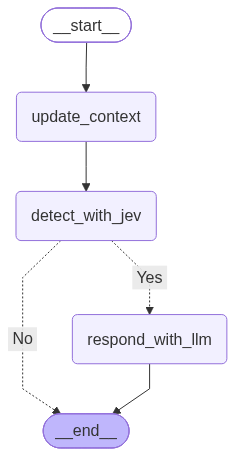
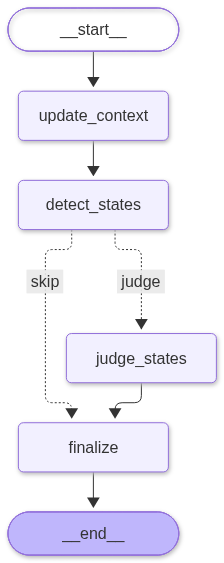
docs: 상태별 판단 구현에 맞춰 계약·아키텍처·진행 기록을 갱신함
Refs #13

Changed region(s): [[0.0312, 0.0, 1.0, 1.0], [0.4688, 0.5219, 0.5312, 0.5526]]

diff --git a/docs/design/state-and-graph.md b/docs/design/state-and-graph.md
@@ -1,71 +1,84 @@
-# ScamShield 2AS State·Graph 계약
+# ScamShield 상태별 판단 State·Graph 계약
 
-상태: **2026-10-23 사용자 요청으로 구조 변경 확정, 2026-10-27 인터페이스·Graph 구현과 API 없는 검증 완료**. 실제 Jev Yes/No 연결은 확인했고 Gemini 생성 성공은 HTTP 504/503으로 미확인이다. 기존 phase·Suspect/Verify·Mock 조회 설계를 대체한다. 현재 작업과 검증 근거는 [2AS change](../../openspec/changes/jev-gemini-two-agent/work.md)에 있다. 과거 데모의 요구와 실행 이력은 [first-demo](../../openspec/changes/first-demo/work.md)에 보존한다.
+상태: **2026-11-22 [jev-state-agents](../../openspec/changes/jev-state-agents/design.md#구현-계약-2026-11-22) 구현 계약대로 구현, API 없는 테스트 통과**. 실제 Jev 6질문·Haiku 연결은 아직 확인하지 않았다. 이전 Jev Yes/No + Gemini 2AS 계약을 대체한다. 2AS의 요구와 검증 기록은 [2AS change](../../openspec/changes/jev-gemini-two-agent/work.md)에 보존한다.
 
 ## 목적과 범위
 
-완성된 STT 텍스트를 Jev에 보내 보이스피싱 여부를 판단하고 Yes일 때만 Gemini로 분석·대응한다. 이번 범위는 두 모델의 인터페이스·실제 API 연결과 LangGraph다. 실제 STT 서비스·Kafka·화자/partial 계약·조회 도구·HTTP 서버·UI는 후속 범위다.
+통화의 새 줄이 들어오면 Jev가 사기 수법 행동 F1~F6이 새 줄에 나타났는지 감지하고, 켜진 상태마다 Claude Haiku가 대화 맥락으로 그 행동이 수상한지 판단한다. 상태 판단으로 통화 상태(위험·주의·정상)와 점수를 정한다. 상태 정의는 [spec](../../openspec/changes/jev-state-agents/spec.md#상태-정의)에 있다. STT·화자 구분·BE 저장은 BE `agent-bridge`가 맡는다.
 
 ## 실행 구조
 
 ```mermaid
 flowchart TD
-    S([STT 텍스트 입력]) --> U[update_context: 대화 누적·이번 결과 초기화]
-    U --> J[detect_with_jev: Jev Yes/No와 확률 저장]
-    J -->|Yes| G[respond_with_llm: Gemini 재판단·대응 저장]
-    J -->|No| E([종료])
-    G --> E
+    S([history·new_lines·state·now]) --> U[update_context: 입력 검증·전체 대화 구성]
+    U --> D[detect_states: Jev 1회, 라우팅]
+    D -->|부를 상태 있음| J[judge_states: 상태별 Haiku 동시 호출, 보정]
+    D -->|없음| F[finalize: 점수·통화 상태·BE 필드]
+    J --> F
+    F --> E([AnalysisOutcome])
 ```
 
-두 판단 역할은 Jev 탐지와 Gemini 재판단·대응이다. update_context는 입력 처리 Node다. 이전 verify_agent·tool_execution·warn Node와 조회 후 Jev 재판단은 없다. 한 turn에 Jev는 1회, Gemini는 Yes이면 1회·No이면 0회다. Gemini가 오탐(is_phishing=False)으로 판단하면 대응 없이 turn을 끝내고, 그래프 안에서 되돌아가는 대신 다음 STT 발화가 새 turn으로 들어와 누적된 transcript로 다시 판단한다. 자동 재시도와 모델 실패 시 offline 전환은 없다.
+입구는 [graph.py](../../scamshield/graph.py)의 `CallPipeline.analyze(history, new_lines, state, now)` 하나다. 통화 상태는 입력 `state`로만 받고 출력 `state`로 돌려주므로 checkpointer가 없다. 같은 요청을 같은 `state`로 다시 보내도 판단이 두 번 쌓이지 않는다. `build_pipeline(offline=False)`는 `TYPESAFE_API_KEY`·`ANTHROPIC_API_KEY`가 비어 있으면 `PipelineError(code="config")`를 낸다. `offline=True`는 키 없는 고정 대역이다.
 
-## 인터페이스와 State
+## 입력과 출력
 
-[interfaces.py](../../scamshield/interfaces.py)의 `Detector.detect(transcript)`는 판정 dict, `Analyst.analyze(state)`는 분석 dict를 반환한다. [graph.py](../../scamshield/graph.py)의 `CallPipeline(detector, analyst).run_turn(call_id, utterance)`가 입력/오류 경계다. `utterance`는 비어 있지 않은 문자열 하나이며 원문을 보존한다. callId는 thread_id로 사용하고 State에 중복 저장하지 않는다.
+- `history: list[str]`: 이번 요청 전 대화. 한 줄은 `"[화자] 발화"`다. `[나]`는 앱 사용자, `[상대]`는 통화 상대, `[사용자 입력 …]`은 사용자가 앱에 넣은 내용이다.
+- `new_lines: list[NewLine]`: 이번 새 줄 `{seq, text}`. 1줄 이상이다.
+- `state: dict | None`: 이전 출력의 `state`. `None`이면 새 통화다.
+- `now: float`: 새 줄의 시각(초). `uncertain` 점수 감소를 잰다.
 
-| State 필드 | 의미·초기화 | 작성 책임 |
-|---|---|---|
-| utterance | 이번 발화. 대화에 추가한 뒤 None | 입력 경계·update_context |
-| transcript: list[str] | 통화 전체 텍스트. 기존 목록 + 새 발화로 전체 교체 | update_context |
-| jev_decision: dict 또는 None | 이번 판정. 새 turn에는 None | 초기화·detect_with_jev |
-| analysis: dict 또는 None | 이번 재판단(is_phishing)·근거·대응. 새 turn에는 None | 초기화·respond_with_llm |
+`AnalysisOutcome`([state.py](../../scamshield/state.py))
 
-`jev_decision = {verdict: "Yes" 또는 "No", probability: 숫자}`다. probability는 항상 **P(보이스피싱/Yes)**이며 0~1의 유한 숫자다. No의 확률이나 confidence와 혼용하지 않는다. `analysis = {is_phishing: 불리언, reason: 문자열, response: 문자열 또는 None}`이다. is_phishing은 Gemini가 Jev의 Yes를 전체 대화로 재판단한 결론이다. reason은 대화에서 확인되는 근거와 한계의 요약이며 공백만 있는 값을 거부한다. response는 is_phishing이 True일 때만 사용자 대응 안내를 담고, False(오탐)이면 None이다. True인데 response가 비었거나 False인데 response가 있으면 오류다. Gemini가 Jev 내부 추론을 직접 알거나 기관 조회를 한 것처럼 설명하지 않는다.
+| 필드 | 의미 |
+|---|---|
+| `status` | `risky` 상태가 있으면 위험, 없고 점수가 남은 `uncertain`이 있으면 주의, 그 밖은 정상 |
+| `score` | 상태별 점수 칸의 합(최대 100) |
+| `message` | 위험일 때 우선순위가 가장 높은 `risky` 상태의 `response`. 비었으면 고정 문구. 위험이 아니면 `None` |
+| `reason` | `risky`와 점수가 남은 `uncertain` 상태의 이유를 우선순위대로 `"F1: … / F4: …"`로 이은 값. 없으면 `None` |
+| `evidence_seqs` | `risky` 상태를 판단한 요청의 새 줄 `seq`(보류였으면 보류 동안 쌓인 `seq`) |
+| `states` | 이번 Jev 결과. 상태별 `{verdict, probability(P(Yes))}` |
+| `state_analyses` | 이번에 부른 Haiku의 보정 후 판단(우선순위 순). 보정 전 판단·보정 이유·tool 결과 상태를 함께 남긴다 |
+| `state` | 다음 요청에 넘길 JSON dict: `handled`(상태별 `{judgment, reason, response, actions, evidence_seqs, judged_at}`), `call_context`(`{purpose, claimed_identity}`), `seen`, `held`(F3·F5 `{probability, seqs}`) |
 
-기존 `phase`, `risk`, `verification_results`, `tool_request`, `verification_attempted`는 제거한다. 새 State는 기존 checkpoint와 호환되지 않는다. InMemorySaver를 새 프로세스에서 시작하고 같은 인스턴스·callId로 순차 호출할 때만 누적한다. 새 callId는 상태가 분리된다. 상태/의존성 입력/관찰 callback에는 복사본을 사용해 외부 변경을 차단한다. 영구 저장·프로세스 공유·동시 입력·cleanup은 구현하지 않는다.
+## Jev 상태 감지
 
-## 실제 Jev 연결
+[jev.py](../../scamshield/jev.py)는 요청마다 `POST /v1/systemone`을 1번 부른다. `history` 마지막 4줄과 새 줄 전부를 보내고, 상태 6개를 choice 질문으로 묻는다. 질문은 "마지막 n줄이 판단할 새 대사"라고 알리고 새 대사에 행동이 있는지만 묻는다. 대기 10초, 자동 재시도는 없다. 호출 실패·잘못된 출력은 `PipelineError(stage="jev")`이며 모든 상태를 No로 바꾸지 않는다. 키·주소·모델 환경변수는 `TYPESAFE_API_KEY`·`TYPESAFE_BASE_URL`·`TYPESAFE_DEFAULT_MODEL`이다.
 
-2026-10-23 [TypeSafe API](https://docs.typesafe.ai/api/system-one), [Choice](https://docs.typesafe.ai/primitives/choice), [환경변수 기준](https://docs.typesafe.ai/sdk/python/api/constants)을 확인했다. [JevClient](../../scamshield/jev.py)는 표준 라이브러리 HTTP로 `POST https://api.typesafe.ai/v1/systemone`을 호출한다.
+## 라우팅
 
-- 인증: `TYPESAFE_API_KEY`를 `Authorization: Bearer`에 전달한다.
-- 기본 주소: `TYPESAFE_BASE_URL=https://api.typesafe.ai`, 기본 모델: `TYPESAFE_DEFAULT_MODEL=jev-latest`.
-- 요청 state: `{transcript: 전체 텍스트 목록}`. question 이름은 `voice_phishing`, type은 `choice`, criteria는 Yes/No다.
-- 응답 `answers.voice_phishing.choice`를 verdict로, `probabilities.Yes`를 probability로 변환한다. 별도 threshold로 Yes/No를 재계산하지 않는다.
-- Yes/No 확률의 존재·범위·유한성·합계(오차 0.001 허용)와 최다 확률 선택을 확인한다. confidence도 API 출력 형식으로 검사하지만 보이스피싱 확률로 저장하지 않는다.
-- HTTP 요청 timeout은 30초다. 호출 실패·잘못된 출력은 오류이며 No가 아니다.
+- Yes인 상태 중 이전 판단이 `risky`가 아닌 상태를 부른다. 이미 `risky`인 상태는 다시 부르지 않고, `uncertain`·`within_normal`은 다시 Yes가 되면 다시 부른다.
+- 이 통화에서 F1·F2·F4·F6이 아직 켜지지 않았으면 F3·F5는 `held`에 쌓고 부르지 않는다. 그중 하나가 처음 켜진 요청에서 `held`를 모두 함께 부르고 비운다.
+- 상태들은 `ThreadPoolExecutor`로 동시에 부르고 결과는 F1 → F3 → F2 → F5 → F4 → F6 순서로 정리한다.
 
-## Gemini 분석·대응
+## 상태별 Haiku 판단
 
-[GeminiAnalyst](../../scamshield/gemini.py)는 전체 transcript와 저장된 jev_decision을 함께 전달한다. 프롬프트는 Jev의 Yes가 오탐일 수 있다고 보고 전체 통화를 다시 읽어 재판단하게 한다. 결론은 `is_phishing`(True/False)에 담고 근거는 `reason`에 남긴다. 여전히 피싱(True)이면 `response`에 대응 안내를 적고, 오탐(False)이면 `response`를 비운다(None). [LangChain 공식 structured output](https://docs.langchain.com/oss/python/integrations/chat/google_generative_ai#structured-output)의 `method="json_schema"`로 `is_phishing/reason/response`를 받는다. Tool을 bind하거나 실행하지 않는다.
+[haiku.py](../../scamshield/haiku.py)는 `claude-haiku-5-5`, effort `low`, 호출마다 대기 12초, `max_retries=0`이다. 입력은 전체 대화(번호 붙임), 상태 정의·절대선·판단 핵심, Jev 확률과 새 대사 번호, `call_context`, 다시 부를 때 이전 판단과 이유다. 출력은 JSON `{judgment, absolute_line, reason, response, actions, call_context}`다. 프롬프트는 상대가 주장한 신분·절차를 정상 근거로 쓰지 말고, 상대가 말한 기관·지점이 공식인지는 대화로 확인할 수 없다고 적는다.
 
-`GEMINI_API_KEY`와 선택적인 `GEMINI_MODEL`을 사용한다. 기존 기본값 gemini-3.8-flash·Developer API·max_retries=0·timeout=120초·thinking_level=low를 유지한다. 모델 설정과 키 확인은 첫 Yes 때만 하므로 No 경로는 Gemini 키가 없어도 동작한다. Gemini는 통화를 재판단해 `reason/response`에 반영하지만, State의 jev_decision(Yes/No·확률)은 덮어쓰지 않고 Jev를 다시 호출하지도 않는다.
+- 보정: `absolute_line`은 F1·F2·F3·F5에서만 받아 `risky`로 고친다. tool 결과가 `flagged`면 `risky`로 고친다. 보정은 `corrections`에 남긴다.
+- tool([tools.py](../../scamshield/tools.py), 고정 목록 Mock): F1 `check_account`, F3 `check_url`·`check_app`(원격제어 앱)·`check_phone`(기관 대표번호). 결과는 `flagged`/`not_found`/`error`이고 `not_found`는 안전 근거가 아니다. 대화 원문이 아니라 계좌번호·주소·앱 이름·전화번호만 넣는다. 상태당 API 호출은 tool 왕복 포함 2번까지다.
+- 실패: 시간 초과·연결 실패·5xx 등 상태 코드 오류·잘못된 출력은 그 상태만 건너뛰고 오류 코드만 로그에 남긴다. 그 상태는 판단하지 않은 것으로 두고 다음 Yes에서 다시 부른다. 인증 실패(401·403)는 `PipelineError(stage="llm", code="AUTH_FAILED")`로 올린다.
+- `call_context`는 결과의 비어 있지 않은 값으로 갱신한다.
 
-## 종료와 오류
+## 점수
 
-정상 결과는 `{callId, jev_decision, analysis}`다. No는 analysis=None으로 즉시 종료하며 이전 Yes의 안내를 재사용하지 않는다. Yes는 검증된 분석을 State에 저장한 뒤 종료한다. 매번 누적 transcript로 새 판단을 받으므로 이전 Yes 뒤 No도 허용한다.
+| 판단 | F1·F2·F3 | F5 | F4·F6 |
+|---|---:|---:|---:|
+| `risky` | 40 | 25 | 10 |
+| `uncertain` | 20 | 10 | 5 |
+| `within_normal` | 0 | 0 | 0 |
 
-오류 결과는 `{callId, error: {stage, code, message}}`다. stage는 input/jev/llm/runtime이며 잘못된 입력은 State 변경 전에 거부한다. MISSING_API_KEY·INVALID_CONFIG·INVALID_OUTPUT·CALL_FAILED·EXECUTION_CONTRACT_VIOLATION을 구분한다. HTTP 코드·상태 같은 진단은 표시하되 키·응답 본문·인증 header·원시 예외 메시지는 출력하지 않는다.
+상태마다 칸이 하나다. `risky`는 고정이고, `uncertain`은 `점수 × 0.5^floor((now − judged_at) / 60)`이며 5 미만이면 0이다. 다시 판단하면 칸을 바꾸고 감소를 다시 잰다.
 
-실패한 Graph에는 성공 결과가 없다. 같은 callId의 pending Node를 재개하지 않고 새 callId로 다시 시작한다. 마지막 성공의 판정/안내가 이번 실패의 결과로 반환되지 않는다.
+## 오류
+
+`PipelineError(stage, code, message)`: `input/INVALID_INPUT`(입력·state 형식), `jev/CALL_FAILED`·`jev/INVALID_OUTPUT`, `llm/AUTH_FAILED`, `config/config`. 키·응답 본문·대화 내용은 메시지와 로그에 넣지 않는다.
 
 ## 검증과 후속 범위
 
-Yes/No 분기·이전 안내 초기화·대화 누적/통화 분리·입출력 검증·실제 Jev payload·Gemini SDK 요청/응답 변환은 API 없는 테스트로 검사한다. 실제 연결은 예제 통화로 별도 확인한다. 이 검증은 보이스피싱 탐지 성능·확률 보정·안내 품질의 평가가 아니다. 한국어 STT 제품·화자·partial/재전송 계약, 서버 전송, 도구 조회, 영구 기록·운영 복구는 후속 작업이다.
+라우팅·보류·재호출, 절대선·tool 보정, 점수 감소, Haiku 실패와 인증 오류, BE 필드, `state` JSON 왕복, Jev 요청 형식, Haiku 요청·tool 왕복은 API 없는 테스트로 확인한다. 실제 Jev·Haiku 연결과 KorCCVi 평가는 아직 하지 않았다. 검증 기록과 남은 일은 [work](../../openspec/changes/jev-state-agents/work.md)에 있다.
 
 ## 관련 문서
 
-- [현재 아키텍처](../architecture/overview.md) · [입력 예제 흐름](mvp-flow.md) · [컨텍스트](../project-context.md)
-- [2AS proposal](../../openspec/changes/jev-gemini-two-agent/proposal.md) · [spec](../../openspec/changes/jev-gemini-two-agent/spec.md) · [design](../../openspec/changes/jev-gemini-two-agent/design.md)
-- [tasks](../../openspec/changes/jev-gemini-two-agent/tasks.md) · [검증 근거](../../openspec/changes/jev-gemini-two-agent/work.md)
-- 제안 중(미채택): [Jev 상태 감지·상태별 LLM 대응](../../openspec/changes/jev-state-agents/proposal.md)
+- [현재 아키텍처](../architecture/overview.md) · [입력과 실행 흐름](mvp-flow.md) · [컨텍스트](../project-context.md)
+- [jev-state-agents proposal](../../openspec/changes/jev-state-agents/proposal.md) · [spec](../../openspec/changes/jev-state-agents/spec.md) · [design](../../openspec/changes/jev-state-agents/design.md) · [tasks](../../openspec/changes/jev-state-agents/tasks.md) · [work](../../openspec/changes/jev-state-agents/work.md)
+- 이전 계약: [2AS change](../../openspec/changes/jev-gemini-two-agent/design.md)

diff --git a/README.md b/README.md
@@ -2,9 +2,9 @@
 
 한국어 통화의 보이스피싱 여부를 판단하고 탐지 시 분석과 대응 안내를 제공하는 졸업프로젝트다. 목적과 합의된 MVP 범위는 [프로젝트 컨텍스트](docs/project-context.md)에 있다.
 
-현재 구조는 **Jev 탐지 + Gemini 분석·대응의 2AS**다. 완성된 STT 텍스트를 Jev에 보내 Yes/No와 P(Yes)를 State에 저장한다. Yes이면 Gemini가 대화와 Jev 결과를 받아 탐지 근거 요약과 대응 안내를 저장하고, No이면 LLM 호출 없이 종료한다. [State·Graph 계약](docs/design/state-and-graph.md)과 [실행 근거](openspec/changes/jev-gemini-two-agent/work.md)를 따른다.
+현재 구조는 **Jev 상태 감지 + 상태별 Claude Haiku 판단**이다. 새 줄이 들어오면 Jev가 사기 수법 행동 F1~F6이 새 줄에 나타났는지 감지하고, 켜진 상태마다 Haiku가 전체 대화로 그 행동이 수상한지 판단한다. 판단으로 통화 상태(위험·주의·정상)와 점수를 만든다. [State·Graph 계약](docs/design/state-and-graph.md)과 [실행 근거](openspec/changes/jev-state-agents/work.md)를 따른다.
 
-![컴파일된 2AS LangGraph](docs/architecture/scamshield-langgraph.png)
+![컴파일된 ScamShield LangGraph](docs/architecture/scamshield-langgraph.png)
 
 ## 작업 시작
 
@@ -34,49 +34,50 @@ uv lock --check --offline
 
 ## CLI 실행
 
-API 없이 연결 흐름을 확인한다. 두 역할 모두 명시적인 대역이며 실제 모델 검증이 아니다.
+API 없이 연결 흐름을 확인한다. Jev·Haiku 모두 명시적인 대역이며 실제 모델 검증이 아니다.
 
 ```sh
 uv run --locked python -m scamshield --offline --auto
 ```
 
-실제 모델을 사용하려면 [.env.example](.env.example)의 이름에 맞춰 로컬 `.env`에 키를 등록한다. 기존 Gemini 설정은 유지하고 [TypeSafe 콘솔](https://console.typesafe.ai/keys)에서 발급한 키를 `TYPESAFE_API_KEY=` 뒤에 입력한다. 키 자체만 넣으며 `Bearer `는 붙이지 않는다. `.env`는 Git에서 제외되고 자동으로 읽지 않는다.
+실제 모델을 사용하려면 [.env.example](.env.example)의 이름에 맞춰 로컬 `.env`에 키를 등록한다. Anthropic 키를 `ANTHROPIC_API_KEY=` 뒤에, [TypeSafe 콘솔](https://console.typesafe.ai/keys)에서 발급한 키를 `TYPESAFE_API_KEY=` 뒤에 입력한다. 키 자체만 넣으며 `Bearer `는 붙이지 않는다. `.env`는 Git에서 제외되고 자동으로 읽지 않는다.
 
 ```dotenv
-GEMINI_API_KEY=
-GEMINI_MODEL=gemini-3.8-flash
+ANTHROPIC_API_KEY=
 TYPESAFE_API_KEY=
 TYPESAFE_BASE_URL=https://api.typesafe.ai
 TYPESAFE_DEFAULT_MODEL=jev-latest
 ```
 
-Jev 설정 이름과 기본값은 [TypeSafe 공식 기준](https://docs.typesafe.ai/sdk/python/api/constants)에 맞췄다. 실제 연결은 표준 HTTP를 사용한다. Gemini는 Yes일 때만 설정·호출되므로 No 경로에는 Gemini 키가 필요하지 않다. 키·인증 헤더·API 오류 본문을 출력하거나 커밋하지 않는다.
+Jev 설정 이름과 기본값은 [TypeSafe 공식 기준](https://docs.typesafe.ai/sdk/python/api/constants)에 맞췄다. 실제 연결은 표준 HTTP를 사용한다. Haiku는 `anthropic` SDK로 `claude-haiku-5-5`를 부른다. 두 키는 시작할 때 모두 확인하며 하나라도 비면 `config` 오류로 멈춘다. 키·인증 헤더·API 오류 본문을 출력하거나 커밋하지 않는다.
 
 ```sh
 uv run --locked --env-file .env python -m scamshield --auto
 uv run --locked --env-file .env python -m scamshield --text "안전계좌로 지금 송금하세요."
 ```
 
-`--auto` 없이 실행하면 세 번 입력받으며 Enter는 준비된 문장을 사용한다. `--text`는 STT 결과에 해당하는 텍스트 한 건을 입력한다. 실제 STT 수신은 아직 없다. Graph 입력 인터페이스는 다음과 같다.
+`--auto` 없이 실행하면 세 번 입력받으며 Enter는 준비된 문장을 사용한다. 화자 표시가 없는 입력은 `[상대]` 말로 본다. `--text`는 STT 결과에 해당하는 텍스트 한 건을 입력한다. CLI는 대화와 agent 상태를 직접 들고 요청을 이어 보낸다. Graph 입력 인터페이스는 다음과 같다.
 
 ```python
-from scamshield.gemini import GeminiAnalyst
-from scamshield.graph import CallPipeline
-from scamshield.jev import JevClient
+import time
 
-pipeline = CallPipeline(JevClient.from_env(), GeminiAnalyst())
-result = pipeline.run_turn("call-1", "완성된 STT 텍스트")
+from scamshield.graph import build_pipeline
+from scamshield.state import NewLine
+
+pipeline = build_pipeline()  # offline=True면 키 없는 대역
+outcome = pipeline.analyze([], [NewLine(seq=1, text="[상대] 완성된 STT 텍스트")], None, time.time())
+next_state = outcome.state  # 다음 요청의 state로 넘긴다
 ```
 
-정상 결과는 `{callId, jev_decision: {verdict, probability}, analysis}`다. probability는 항상 P(Yes)이며 analysis는 Yes일 때 `{is_phishing, reason, response}`, No일 때 None이다. is_phishing은 Gemini가 Jev의 Yes를 재판단한 결과이고, response는 피싱(True)일 때만 대응 안내를 담고 오탐(False)이면 None이다. 같은 인스턴스·callId를 재사용하면 전체 대화가 누적된다. 실제 모델의 출력은 고정 시나리오가 아니다.
+결과 `AnalysisOutcome`은 `status`(위험·주의·정상), `score`(0~100), `message`, `reason`, `evidence_seqs`, 이번 Jev 결과 `states`, 이번 Haiku 판단 `state_analyses`, 다음 요청에 넘길 `state`다. `analyze`는 상태를 저장하지 않으므로 호출하는 쪽이 `history`와 `state`를 들고 있어야 한다. 실제 모델의 출력은 고정 시나리오가 아니다.
 
 캐시 권한 문제가 있으면 `uv --cache-dir .venv/uv-cache run ...`으로 실행한다. Windows에서 uv가 PATH에 없고 로컬 가상환경에 설치되어 있다면 `.venv\Scripts\python.exe -m uv`를 사용할 수 있다. 한글 출력은 `python -X utf8 -m scamshield ...`로 실행할 수 있다.
 
 ## 현재 범위
 
-phase·Suspect/Verify·Mock case_lookup·조회 후 재판단을 제거했다. 두 역할의 Protocol, 실제 Jev HTTP·Gemini JSON schema 연결, Yes/No 조건 분기와 통화별 InMemorySaver를 구현했다. State는 최신 판단/분석만 저장하며 이전 분석이 다음 No에 남지 않는다. 실패는 오류로 반환하고 자동 재시도·offline 대체를 하지 않는다.
+2AS의 Gemini 경로와 `voice_phishing` 질문을 뺐다. Jev 상태 6개 감지, F3·F5 보류와 재호출 규칙, 상태별 Haiku 동시 호출, 절대선·tool 보정, 점수 감소를 구현했다. tool은 고정 목록 Mock이다. Jev 실패와 Haiku 인증 실패는 오류이고, 그 밖의 Haiku 실패는 그 상태만 건너뛴다. 자동 재시도·offline 대체는 없다.
 
-전체 대화는 프로세스 내에서만 유지된다. CLI의 세 입력 제한은 데모 설정이며 Graph의 turn 한도가 아니다. 실제 STT·화자 정보·partial 처리·Kafka·조회 도구·웹 서버·UI·영구 저장·동시 입력/복구는 후속 범위다.
+통화 상태 저장과 화자·상대 구분은 BE `agent-bridge`가 맡는다. CLI의 세 입력 제한은 데모 설정이다. 실제 tool API와 KorCCVi 평가는 후속 범위다.
 
 ## 코드 검증과 그래프 출력
 
@@ -85,7 +86,7 @@ uv run --locked pytest -q
 uv run --locked python -m scamshield.export_graph
 ```
 
-테스트는 API 없이 Yes/No 경로·이전 안내 초기화·통화 분리·HTTP/SDK 요청 변환·입출력 오류·CLI를 확인한다. 실제 연결과 테스트 결과는 [work](openspec/changes/jev-gemini-two-agent/work.md)에 구분한다. 탐지 성능이나 확률 보정을 검증한 것은 아니다.
+테스트는 API 없이 라우팅·보류·재호출, 절대선·tool 보정, 점수 감소, Haiku 실패 처리, BE 필드, `state` JSON 왕복, Jev·Haiku 요청 변환, CLI를 확인한다. 실제 연결과 테스트 결과는 [work](openspec/changes/jev-state-agents/work.md)에 구분한다. 탐지 성능이나 확률 보정을 검증한 것은 아니다.
 
 그래프 출력은 실제 컴파일된 LangGraph에서 [Mermaid 원본](docs/architecture/scamshield-langgraph.mmd)과 PNG를 생성한다. PNG 렌더링에는 Mermaid.ink 네트워크 접근이 필요하며 그래프 구조만 전송하고 모델은 호출하지 않는다.
 

diff --git a/openspec/index.md b/openspec/index.md
@@ -20,9 +20,9 @@
 
 공통 설계의 기준은 `docs/design/`, 현재 구현 설명은 `docs/architecture/`에 둔다. change 문서는 해당 변경의 요구와 적용 방법·진행을 담고 상위 문서로 연결한다. 변경이 반영되면 관련 기준 문서를 갱신하고, 본문의 관련 문서 항목에서 해당 change와 검증 기록으로 연결한다.
 
-## Jev 상태 감지·상태별 LLM 대응 — 진행 중(설계 확정, 구현 중)
+## Jev 상태 감지·상태별 LLM 대응 — 진행 중(agent 구현 완료, BE 브리지 남음)
 
-2026-11-15 사용자 요청으로 시작했다. KorCCVi에서 나온 대화 특징 F1~F6을 Jev가 상태로 감지하고, 켜진 상태별로 LLM이 대화 맥락을 보고 최종 판단과 대응을 한다. 2026-11-16 팀장과 이 구조로 전환하기로 협의했고 작업 이슈 [#13](https://github.com/M4-Scamshield/scam-agent/issues/13)을 등록했다. 상태별 LLM은 Claude API 에이전트로 쓴다. 같은 날 voice_phishing 임시 유지(나중에 제거), Claude 범위, BE 형식 유지, 임시 점수, F1·F3 Mock tool을 정했다. Jev에 상태 질문 7개를 한 요청으로 보내는 소량 실호출(20통화, 실패 0)로 형식을 확인했고, F5·F6 정의를 넓힌 v2와 묶음 오류·경계 정의를 고친 v3까지 같은 20통화로 상태별 미탐·오탐 원인을 확인했다. v3에서 spec 정의 기준 Jev 미탐은 F4 1건이다. 2026-11-17 새 표본(seed 1)에서 F1·F4·F6은 유지됐고, F5는 녹취 핑계로 제3자를 막는 행동을 No 문구가 빼 버려 재현이 3/7로 떨어졌다. 이를 고친 v4에서 F5는 6/7이 됐고 정상 통화 F5 오탐은 0이다. 2026-11-18 F4 평가 정답을 spec에 맞게 좁혀(N6은 돈 요구가 있는 통화만, N5는 혐의 추궁만) 재채점했고, v4 F4 재현은 seed 0 5/6, seed 1 9/10이다. 같은 날 개발용 200통화(사기 120, 정상 80)에서 재현은 F1 64%~F6 98%였고, 정상 통화 50/80에서 상태가 켜졌다. 그중 43통화는 F3·F6만 켜졌다. 대사 단위 확인(2026-11-19)에서 이 F3·F6는 상담원의 번호·사이트·장소 안내와 기관 소개로 켜졌다. 같은 날 Jev는 행동 감지만 하고 상태별 LLM(Claude Haiku)이 맥락으로 거르기로 했고, 상태 하나만 켜져도 LLM을 부르되 F3·F5만 켜진 동안은 보류한다(KorCCVi 단독 사기 각 1%). 2026-11-22 Jev에 최근 5줄만 보내고 마지막 대사를 판단하는 창 방식(v5 후보)을 사기 40·정상 20통화로 재 봤다. 통화 단위 재현은 전체 1회 판단과 같거나 높고, 정상 F3·F6 Yes 대사는 누적 방식의 약 1/4이지만, 대사마다 LLM을 부르면 사기 통화당 15.6회라 재호출 규칙이 필요하다. 같은 날 사용자가 창 방식을 채택했다. 같은 날 멘토링에서 기존 점수가 내려가지 않는다는 지적을 받았고, 판단·점수 규칙을 정했다. `risky` 상태는 다시 부르지 않고 점수를 고정한다. `uncertain` 점수는 1분마다 절반으로 줄인다. SUSPECT·WARN 대신 통화 상태(위험·주의·정상)를 쓰고, 알림은 위험일 때만 띄운다. BE가 합쳐 보내는 새 줄 전부를 한 번에 Jev에 묻는다. 같은 날 구현 전 남은 결정을 권장안대로 정했다: Gemini 경로와 `voice_phishing` 질문을 빼고, BE는 Java·DB를 그대로 두고 `agent-bridge`만 바꾼다(위험이 아니면 점수 39 이하). 버전별 변경 이유와 결과는 [변경 이력](../docs/analysis/jev-state-question-versions.md)에 있다. 서비스 코드는 [구현 계약](changes/jev-state-agents/design.md#구현-계약-2026-11-22)대로 구현 중이며, 반영 전까지 현재 2AS 계약을 대체하지 않는다.
+2026-11-15 사용자 요청으로 시작했다. KorCCVi에서 나온 대화 특징 F1~F6을 Jev가 상태로 감지하고, 켜진 상태별로 LLM이 대화 맥락을 보고 최종 판단과 대응을 한다. 2026-11-16 팀장과 이 구조로 전환하기로 협의했고 작업 이슈 [#13](https://github.com/M4-Scamshield/scam-agent/issues/13)을 등록했다. 상태별 LLM은 Claude API 에이전트로 쓴다. 같은 날 voice_phishing 임시 유지(나중에 제거), Claude 범위, BE 형식 유지, 임시 점수, F1·F3 Mock tool을 정했다. Jev에 상태 질문 7개를 한 요청으로 보내는 소량 실호출(20통화, 실패 0)로 형식을 확인했고, F5·F6 정의를 넓힌 v2와 묶음 오류·경계 정의를 고친 v3까지 같은 20통화로 상태별 미탐·오탐 원인을 확인했다. v3에서 spec 정의 기준 Jev 미탐은 F4 1건이다. 2026-11-17 새 표본(seed 1)에서 F1·F4·F6은 유지됐고, F5는 녹취 핑계로 제3자를 막는 행동을 No 문구가 빼 버려 재현이 3/7로 떨어졌다. 이를 고친 v4에서 F5는 6/7이 됐고 정상 통화 F5 오탐은 0이다. 2026-11-18 F4 평가 정답을 spec에 맞게 좁혀(N6은 돈 요구가 있는 통화만, N5는 혐의 추궁만) 재채점했고, v4 F4 재현은 seed 0 5/6, seed 1 9/10이다. 같은 날 개발용 200통화(사기 120, 정상 80)에서 재현은 F1 64%~F6 98%였고, 정상 통화 50/80에서 상태가 켜졌다. 그중 43통화는 F3·F6만 켜졌다. 대사 단위 확인(2026-11-19)에서 이 F3·F6는 상담원의 번호·사이트·장소 안내와 기관 소개로 켜졌다. 같은 날 Jev는 행동 감지만 하고 상태별 LLM(Claude Haiku)이 맥락으로 거르기로 했고, 상태 하나만 켜져도 LLM을 부르되 F3·F5만 켜진 동안은 보류한다(KorCCVi 단독 사기 각 1%). 2026-11-22 Jev에 최근 5줄만 보내고 마지막 대사를 판단하는 창 방식(v5 후보)을 사기 40·정상 20통화로 재 봤다. 통화 단위 재현은 전체 1회 판단과 같거나 높고, 정상 F3·F6 Yes 대사는 누적 방식의 약 1/4이지만, 대사마다 LLM을 부르면 사기 통화당 15.6회라 재호출 규칙이 필요하다. 같은 날 사용자가 창 방식을 채택했다. 같은 날 멘토링에서 기존 점수가 내려가지 않는다는 지적을 받았고, 판단·점수 규칙을 정했다. `risky` 상태는 다시 부르지 않고 점수를 고정한다. `uncertain` 점수는 1분마다 절반으로 줄인다. SUSPECT·WARN 대신 통화 상태(위험·주의·정상)를 쓰고, 알림은 위험일 때만 띄운다. BE가 합쳐 보내는 새 줄 전부를 한 번에 Jev에 묻는다. 같은 날 구현 전 남은 결정을 권장안대로 정했다: Gemini 경로와 `voice_phishing` 질문을 빼고, BE는 Java·DB를 그대로 두고 `agent-bridge`만 바꾼다(위험이 아니면 점수 39 이하). 버전별 변경 이유와 결과는 [변경 이력](../docs/analysis/jev-state-question-versions.md)에 있다. 같은 날 agent를 [구현 계약](changes/jev-state-agents/design.md#구현-계약-2026-11-22)대로 구현해 2AS 계약을 대체했고, API 없는 테스트 74개가 통과했다. 실제 Jev·Haiku 연결 확인과 BE `agent-bridge` 변경이 남았다.
 
 - [proposal](changes/jev-state-agents/proposal.md): 목적·범위·완료 조건.
 - [spec](changes/jev-state-agents/spec.md): 상태 정의·라우팅·LLM 계약·절대선.

diff --git a/docs/architecture/overview.md b/docs/architecture/overview.md
@@ -1,8 +1,8 @@
-# 현재 2AS 구성
+# 현재 상태별 판단 구성
 
-2026-10-27 기준 Jev 탐지 → Yes일 때 Gemini 분석·대응하는 LangGraph를 구현했다. 계약은 [State·Graph](../design/state-and-graph.md), 실행한 검증·한계는 [2AS work](../../openspec/changes/jev-gemini-two-agent/work.md)에 있다.
+2026-11-22 기준 Jev 상태 감지(F1~F6) → 켜진 상태별 Claude Haiku 판단 → 통화 상태·점수 계산 LangGraph를 구현했다. 이전 Jev Yes/No + Gemini 2AS를 대체한다. 계약은 [State·Graph](../design/state-and-graph.md), 실행한 검증·한계는 [jev-state-agents work](../../openspec/changes/jev-state-agents/work.md)에 있다.
 
-![컴파일된 ScamShield 2AS LangGraph](scamshield-langgraph.png)
+![컴파일된 ScamShield LangGraph](scamshield-langgraph.png)
 
 이 이미지는 [export_graph.py](../../scamshield/export_graph.py)가 실제 `build_graph(OfflineDetector(), OfflineAnalyst())`를 컴파일한 뒤 추출한다. 대역과 실제 모델이 같은 Graph를 사용하며 내보내는 동안 모델 호출은 없다. [Mermaid 원본](scamshield-langgraph.mmd)도 함께 저장한다.
 
@@ -10,20 +10,20 @@
 
 | 코드 | 책임 |
 |---|---|
-| [state.py](../../scamshield/state.py) | 입력·State·Yes/No와 확률·reason/response 검증 계약 |
-| [interfaces.py](../../scamshield/interfaces.py) | Detector/Analyst Protocol, 명시적인 offline 대역 |
-| [jev.py](../../scamshield/jev.py) | TypeSafe HTTP 호출, Choice 확률을 내부 판정으로 변환 |
-| [gemini.py](../../scamshield/gemini.py) | Yes일 때만 모델 설정·구조화 분석 1회 호출 |
-| [graph.py](../../scamshield/graph.py) | 대화 누적, 판단 저장, Yes/No 분기, 분석 저장, checkpoint·오류 경계 |
-| [cli.py](../../scamshield/cli.py) | 완성 텍스트 입력, 실행 순서·판정·확률·분석·안내 출력 |
+| [state.py](../../scamshield/state.py) | 입력 `NewLine`, 출력 `AnalysisOutcome`, 요청 사이 상태 `AgentMemory`, Haiku 출력 검증, `PipelineError` |
+| [tactics.py](../../scamshield/tactics.py) | 상태 F1~F6 정의, 우선순위·보류 기준·절대선 상태·점수 |
+| [interfaces.py](../../scamshield/interfaces.py) | Detector/Analyst Protocol, 키 없는 offline 대역 |
+| [jev.py](../../scamshield/jev.py) | TypeSafe HTTP 호출, 상태 6개 choice 질문, 상태별 Yes/No·P(Yes) 변환 |
+| [haiku.py](../../scamshield/haiku.py) | 상태별 Haiku 프롬프트·호출·tool 왕복, 실패 분류 |
+| [tools.py](../../scamshield/tools.py) | F1·F3 Mock tool(고정 목록) |
+| [graph.py](../../scamshield/graph.py) | 라우팅, 동시 호출, 절대선·tool 보정, 점수·통화 상태·BE 필드, `build_pipeline` |
+| [cli.py](../../scamshield/cli.py) | 여러 요청을 이어 보내는 데모 입력과 결과 출력 |
 | [export_graph.py](../../scamshield/export_graph.py) | 컴파일된 그래프의 Mermaid·PNG 출력 |
 
 ## 수명과 범위
 
-같은 CallPipeline 인스턴스에서 thread_id=callId로 InMemorySaver를 공유한다. 전체 텍스트는 누적하고 판단·분석은 매 turn 비운 뒤 최신 값으로 교체한다. No는 LLM 호출 없이 종료하며 이전 분석을 남기지 않는다. 상태의 영구 저장과 동시 입력 처리는 없다.
-
-기존 phase/조회 State, Suspect/Verify 역할, Mock case_lookup·tool_execution·재판단 loop와 관련 코드를 제거했다. 기존 데모 기록은 역사 자료이며 현재 동작 설명이 아니다. 실제 STT·웹 서버·도구 조회는 아직 없다. 실행 방법은 [README](../../README.md)에 있다.
+`analyze`는 상태를 저장하지 않는다. 통화 상태는 BE가 `state`로 저장해 다음 요청에 돌려준다. 대화 원문·화자 구분·상대별 쌍 판단·응답 변환은 BE `agent-bridge`가 맡는다. tool은 Mock이고 실제 조회 API는 없다. 실행 방법은 [README](../../README.md)에 있다.
 
 ## 검증
 
-API 없는 Graph·Jev HTTP·Gemini SDK·CLI 검사는 [tests](../../tests/test_graph.py)에 연결된 테스트 모음으로 확인한다. 실제 Jev·Gemini 연결은 별도의 예제 통화로 확인하며 결과는 [work](../../openspec/changes/jev-gemini-two-agent/work.md)에 구분한다. 외부 모델 연결 성공과 탐지 성능 평가는 별개다.
+API 없는 Graph·Jev HTTP·Haiku 요청·Mock tool·CLI 검사는 [tests](../../tests/test_graph.py)에 연결된 테스트 모음으로 확인한다. 실제 Jev·Haiku 연결과 KorCCVi 평가는 아직이며 결과는 [work](../../openspec/changes/jev-state-agents/work.md)에 구분해 남긴다.

diff --git a/docs/design/mvp-flow.md b/docs/design/mvp-flow.md
@@ -1,18 +1,16 @@
-# 2AS 입력과 실행 흐름
+# 입력과 실행 흐름
 
-현재 기준은 [2AS State·Graph 계약](state-and-graph.md)이다. 기존 Fake Jev·Mock 조회 데모는 [과거 실행 기록](../../openspec/changes/first-demo/work.md)으로 보존한다.
+현재 기준은 [State·Graph 계약](state-and-graph.md)이다. 2AS와 기존 Fake Jev·Mock 조회 데모의 기록은 [2AS work](../../openspec/changes/jev-gemini-two-agent/work.md)와 [과거 실행 기록](../../openspec/changes/first-demo/work.md)으로 보존한다.
 
-## 이번 turn의 흐름
+## 요청 하나의 흐름
 
-1. 완성된 STT 문자열을 `CallPipeline.run_turn(call_id, utterance)`로 전달한다. 현재 CLI 텍스트 입력이 이 경계를 대신한다.
-2. update_context가 대화를 누적하고 이번 판정·분석을 비운다.
-3. Jev가 전체 대화를 읽고 Yes/No와 P(Yes)를 반환하면 State에 저장한다.
-4. No는 analysis=None으로 종료한다. Yes는 Gemini가 대화·Jev 결과를 읽어 reason/response를 저장하고 종료한다.
-
-다음 발화도 같은 callId로 전체 대화를 평가한다. 이전 Yes가 새 Yes를 강제하지 않는다. 실제 STT 수신·화자/partial·Kafka는 이번 범위 밖이다.
+1. BE `agent-bridge`(또는 CLI)가 이전 대화 `history`, 이번 새 줄 `new_lines`, 이전 출력 `state`, 시각 `now`로 `CallPipeline.analyze`를 부른다.
+2. Jev가 최근 4줄과 새 줄로 F1~F6이 새 줄에 나타났는지 감지한다.
+3. 켜진 상태 중 부를 상태만 Haiku가 전체 대화로 판단한다. F3·F5만 켜진 동안은 보류한다.
+4. 상태 판단으로 통화 상태·점수·안내를 만들고 다음 요청에 넘길 `state`를 돌려준다.
 
 ## 실행 확인
 
-`--offline --auto`의 준비된 세 문장은 일상 대화 → 기관 사칭/범죄 연루 → 안전계좌 송금 요구다. offline 대역에서 No → Yes → Yes를 고정 규칙으로 보여준다. 실제 Jev의 선택·확률과 Gemini 출력은 모델이 결정하므로 fixture와 동일하다고 가정하지 않는다.
+CLI는 대화와 `state`를 직접 들고 요청을 이어 보내며, 시각은 `time.time()`이다. 화자 표시가 없는 입력은 `[상대]` 말로 본다. `--offline --auto`의 준비된 세 문장은 일상 대화 → 기관 사칭·범죄 연루 → 안전계좌 송금 요구다. offline 대역은 키워드 규칙과 고정 판단(F1·F2 `risky`, 나머지 `uncertain`)으로 정상 → 주의 → 위험을 보여 준다. 실제 Jev·Haiku 출력은 모델이 정하므로 대역과 같다고 가정하지 않는다.
 
-직접 텍스트 한 건은 `--text`로 전달한다. 기본 CLI의 Enter 입력과 `--auto`는 세 turn 뒤 종료하는 데모이며 Graph의 turn 한도가 아니다. 명령·키 설정은 [README](../../README.md), 현재 검증은 [2AS work](../../openspec/changes/jev-gemini-two-agent/work.md)를 따른다.
+직접 텍스트 한 건은 `--text`로 넣는다. 기본 CLI의 Enter 입력과 `--auto`는 세 요청 뒤 끝나는 데모다. 명령·키 설정은 [README](../../README.md), 현재 검증은 [jev-state-agents work](../../openspec/changes/jev-state-agents/work.md)를 따른다.

diff --git a/openspec/changes/jev-state-agents/tasks.md b/openspec/changes/jev-state-agents/tasks.md
@@ -1,11 +1,11 @@
 # 작업 목록
 
-상태: 진행 중(설계 확정, 구현 단계). 작업 이슈: [#13](https://github.com/M4-Scamshield/scam-agent/issues/13)
+상태: 진행 중(agent 구현·API 없는 테스트 완료, BE 브리지·실연결 확인 남음). 작업 이슈: [#13](https://github.com/M4-Scamshield/scam-agent/issues/13)
 
 - [x] 상태 정의, 라우팅, LLM 계약, 절대선을 제안으로 기록한다.
 - [x] 팀장과 전환 방향을 협의하고 작업 이슈를 등록한다(#13).
 - [x] 미정 사항을 정한다: voice_phishing 임시 유지(나중에 제거), Claude는 상태 에이전트만, BE 계약 유지, 점수 임시 값, F1·F3 Mock tool. 근거: [design](design.md#결정-사항-2026-11-16-사용자-결정)
-- [ ] (나중) 평가로 `voice_phishing`만 Yes인 사기가 거의 없다고 확인되면 이 질문을 없앤다.
+- [x] (나중) 평가로 `voice_phishing`만 Yes인 사기가 거의 없다고 확인되면 이 질문을 없앤다. 2026-11-22 결정으로 평가 전에 구현에서 뺐다.
 - [x] 실제 Jev에 상태 질문 6개와 `voice_phishing`을 한 요청으로 보내 응답 형식을 확인한다(20통화, 실패 0). 근거: [work](work.md#2026-11-16-jev-상태-질문-소량-실호출)
 - [x] F5·F6 질문 문구를 고쳐 재현율을 다시 확인한다(F5 2/7→5/7, F6 8/13→12/13). 근거: [work](work.md#f5f6-문구-수정-v2)
 - [ ] 정상 금융 상담 통화에서 F6 오탐을 따로 확인한다.
@@ -28,6 +28,7 @@
 - [x] Haiku로 Jev 상태 후보를 검증해 정상 오탐과 사기 누락을 잰다(사기 알림 36/40, 정상 위험 1/20). 근거: [work](work.md#haiku-상태-판단-검증-2026-11-22)
 - [x] Haiku 검증의 남은 검토를 정한다: 짧은 수사기관 사칭, 신분 주장 근거 사용, 정상 통화 주의 시간, 절대선 값 처리. 근거: [design](design.md#결정-사항-2026-11-22-구현-전-사용자-결정)
 - [ ] (나중) F1에 송금 직전 준비 행동을 넣을지 정한다.
-- [ ] State, Graph, 상태별 LLM, 모의 tool을 [구현 계약](design.md#구현-계약-2026-11-22)대로 구현하고 API 없는 테스트를 작성한다.
+- [x] State, Graph, 상태별 LLM, 모의 tool을 [구현 계약](design.md#구현-계약-2026-11-22)대로 구현하고 API 없는 테스트를 작성한다. 근거: [work](work.md#agent-구현-2026-11-22)
 - [ ] BE `agent-bridge`를 구현 계약대로 바꾼다(BE `dev`에서 딴 브랜치).
-- [ ] 채택되면 [2AS 계약](../../../docs/design/state-and-graph.md)과 아키텍처 문서를 갱신한다.
+- [x] 채택되면 [State·Graph 계약](../../../docs/design/state-and-graph.md)과 [아키텍처 문서](../../../docs/architecture/overview.md)를 갱신한다.
+- [ ] 실제 Jev(질문 6개 묶음)와 Haiku 연결을 예제 통화로 확인한다.

diff --git a/docs/harness/workflow.md b/docs/harness/workflow.md
@@ -43,7 +43,7 @@
 python3 .agents/skills/scamshield-docs-sync/scripts/check_docs.py
 ```
 
-데모 실행과 API 없는 테스트는 다음 명령을 사용한다. Gemini 실행 환경변수·입력 방법과 검증 한계는 [README](../../README.md)에 있다.
+데모 실행과 API 없는 테스트는 다음 명령을 사용한다. 실행 환경변수·입력 방법과 검증 한계는 [README](../../README.md)에 있다.
 
 ```sh
 uv sync --locked
@@ -51,4 +51,4 @@ uv run --locked pytest -q
 uv run --locked python -m scamshield --offline --auto
 ```
 
-실제 2AS는 TYPESAFE_API_KEY를 실행 환경에 설정하고 Yes 경로용 GEMINI_API_KEY를 준비한 뒤 `uv run --locked python -m scamshield --auto`로 별도 검증한다. Jev는 Yes/No·P(Yes)를 반환하고 Yes일 때만 Gemini가 분석·대응한다. 로컬 `.env`를 사용하면 uv에 `--env-file .env`를 명시한다. 캐시 권한 오류의 대체 경로와 직접 입력 명령은 [README](../../README.md)를 따른다. API 없는 테스트 통과를 실제 모델 호출 성공으로 표시하지 않는다.
+실제 모델 연결은 `TYPESAFE_API_KEY`와 `ANTHROPIC_API_KEY`를 실행 환경에 설정한 뒤 `uv run --locked python -m scamshield --auto`로 별도 검증한다. Jev는 상태 F1~F6의 Yes/No·P(Yes)를 반환하고 부를 상태만 Haiku가 판단한다. 로컬 `.env`를 사용하면 uv에 `--env-file .env`를 명시한다. 캐시 권한 오류의 대체 경로와 직접 입력 명령은 [README](../../README.md)를 따른다. API 없는 테스트 통과를 실제 모델 호출 성공으로 표시하지 않는다.

diff --git a/docs/project-context.md b/docs/project-context.md
@@ -1,10 +1,14 @@
 # 사용자 제공 프로젝트 컨텍스트
 
-## 현재 확정 방향 — 2AS
+## 현재 확정 방향 — 상태별 판단
+
+2026-11-15 사용자 요청, 2026-11-22 구현: Jev가 KorCCVi에서 나온 사기 수법 행동 F1~F6을 상태로 감지하고, 켜진 상태마다 Claude Haiku가 대화 맥락으로 판단한다. Gemini 경로는 뺐다. 현재 계약은 [State·Graph](design/state-and-graph.md), 구현 상태는 [아키텍처](architecture/overview.md), 진행과 다음 행동은 [jev-state-agents work](../openspec/changes/jev-state-agents/work.md)를 따른다.
+
+## 이전 확정 방향 — 2AS
 
 2026-10-23 사용자가 기존 아키텍처를 변경했다. Jev에 STT 결과를 보내 보이스피싱 Yes/No와 확률을 받아 State에 저장한다. Yes이면 전체 대화와 그 결과를 Gemini에 전달해 근거 요약과 대응 안내를 남기고, No이면 아무 대응 없이 종료한다. 기존 Suspect/Verify·phase·Mock 조회 구조를 이번 구현에서 대체한다. 실제 STT 제품을 연결하기 전 텍스트 입력 인터페이스부터 만든다. 불필요한 코드 제거와 최종 그래프 출력도 요청했다.
 
-현재 계약은 [2AS State·Graph](design/state-and-graph.md), 구현 상태는 [아키텍처](architecture/overview.md), 검증과 다음 행동은 [2AS work](../openspec/changes/jev-gemini-two-agent/work.md)를 따른다.
+2AS의 검증 기록은 [2AS work](../openspec/changes/jev-gemini-two-agent/work.md)에 있다.
 
 ## 이전 구조의 사용자 맥락
 

diff --git a/docs/design/index.md b/docs/design/index.md
@@ -4,9 +4,9 @@
 
 | 문서 | 포함한 내용 |
 |---|---|
-| [2AS State·Graph 계약](state-and-graph.md) | 현재 Jev Yes/No·P(Yes), Gemini 분석·대응, State·실패·통화 수명 |
-| [2AS 입력과 실행 흐름](mvp-flow.md) | STT 텍스트 경계와 CLI·offline 실행, Yes/No 종료 |
+| [State·Graph 계약](state-and-graph.md) | 현재 Jev 상태 감지·상태별 Haiku 판단·점수, `analyze` 입출력·실패 |
+| [입력과 실행 흐름](mvp-flow.md) | 요청 하나의 흐름과 CLI·offline 실행 |
 
-2AS는 2026-10-23 사용자 요청에 따라 기존 phase·Suspect/Verify·Mock 조회 흐름을 대체한다. 현재 [아키텍처](../architecture/overview.md)와 [2AS change](../../openspec/changes/jev-gemini-two-agent/work.md)를 기준으로 이어간다. 이전 Verify/입력 제안을 새 구조에 채택한 것으로 취급하지 않는다.
+2026-11-22 [jev-state-agents](../../openspec/changes/jev-state-agents/work.md) 구현으로 2AS(2026-10-23, [2AS change](../../openspec/changes/jev-gemini-two-agent/work.md))를 대체했다. 현재 [아키텍처](../architecture/overview.md)와 jev-state-agents change를 기준으로 이어간다. 이전 Verify/입력 제안을 새 구조에 채택한 것으로 취급하지 않는다.
 
 후속 주제는 실제 STT·화자/partial/재전송 계약, 서버 전달, 탐지/확률·대응 품질 평가, 필요한 조회 도구의 별도 설계다. 사용자 방향과 과거 맥락은 [프로젝트 컨텍스트](../project-context.md)에 있다.

diff --git a/docs/architecture/index.md b/docs/architecture/index.md
@@ -4,6 +4,6 @@
 
 | 문서 | 포함한 내용 |
 |---|---|
-| [현재 2AS 구성](overview.md) | Jev 탐지·Yes일 때 Gemini 분석, 코드별 책임·State 수명·컴파일된 그래프 |
+| [현재 상태별 판단 구성](overview.md) | Jev 상태 감지·상태별 Haiku 판단·점수, 코드별 책임·State 수명·컴파일된 그래프 |
 
-계약은 [State·Graph](../design/state-and-graph.md), 사용자 방향은 [컨텍스트](../project-context.md), 현재 진행·검증은 [2AS work](../../openspec/changes/jev-gemini-two-agent/work.md)에 있다. 이전 데모의 실제 실행 기록은 [first-demo](../../openspec/changes/first-demo/work.md)에 보존한다.
+계약은 [State·Graph](../design/state-and-graph.md), 사용자 방향은 [컨텍스트](../project-context.md), 현재 진행·검증은 [jev-state-agents work](../../openspec/changes/jev-state-agents/work.md)에 있다. 이전 2AS 기록은 [2AS work](../../openspec/changes/jev-gemini-two-agent/work.md)에 있다. 이전 데모의 실제 실행 기록은 [first-demo](../../openspec/changes/first-demo/work.md)에 보존한다.
